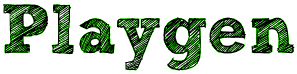
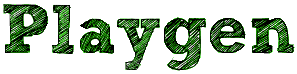
cleaned up but still unsatisfied with speed, about to start implementing threads

diff --git a/templates/home.html b/templates/home.html
@@ -2,7 +2,7 @@
 {% block body %}
 <!-- Main hero unit for a primary marketing message or call to action -->
 <div class="hero-unit">
-  <center><a href='/' id='playgen'><img src="{{ url_for('static', filename='img/playgen-trans.png') }}"></a><center>
+  <center><a href='/' id='playgen'><img src="{{ url_for('static', filename='img/playgen.png') }}"></a><center>
 	<br>
   <p>Type a poem or song here, and get a customized Spotify playlist :) </p>
   <form action="{{ url_for('create_playlist') }}" method="post" id="create-playlist">

diff --git a/templates/no_playlist.html b/templates/no_playlist.html
@@ -1,7 +1,7 @@
 {% extends "layout.html" %}
 {% block body %}
 <div class="hero-unit">
-  <center><a href='/' id='playgen'><img src="{{ url_for('static', filename='img/playgen-trans.png') }}"></a><center>
+  <center><a href='/' id='playgen'><img src="{{ url_for('static', filename='img/playgen.png') }}"></a><center>
 	<br>
   <p>Sorry, we couldn't make a playlist for this phrase: </p>
   <p><i>{{query}}</i></p>

diff --git a/templates/playlist.html b/templates/playlist.html
@@ -1,7 +1,7 @@
 {% extends "layout.html" %}
 {% block body %}
 <div class="hero-unit">
-  <center><a href='/' id='playgen'><img src="{{ url_for('static', filename='img/playgen-trans.png') }}"></a><center>
+  <center><a href='/' id='playgen'><img src="{{ url_for('static', filename='img/playgen.png') }}"></a><center>
 	<br>
   <p>Here's your new playlist! Enjoy! :) </p>
   <ul class = "unstyled">

diff --git a/generate_playlist.py b/generate_playlist.py
@@ -4,9 +4,10 @@ import urllib2
 import json
 
 
-
 start = time()
 begin = time()
+sum_sol_time=0
+sum_request_time = 0
 num_requests = 0
 cache = {}
 
@@ -14,6 +15,7 @@ def playlist(query):
   global start
   global begin
   global num_requests
+
   start = time()
   begin = time()
   num_requests = 0
@@ -22,7 +24,9 @@ def playlist(query):
   stride = create_stride(len(qlist))
   dp_table = {"query": query, 'solution': None} 
   r = gen(stride-1,0,len(qlist),qlist,dp_table)
-  print "Total Elapsed: " + str(time() - begin)   
+  print "Total Elapsed: " + str(time() - begin)  
+  print "Total spent on solutions: " + str(sum_sol_time)
+  print "Total spent on requests: " + str(sum_request_time)
   return r
   
   
@@ -37,6 +41,7 @@ def create_stride(n):
     return min(3,n)
     
 def gen(r,c,n,l,dp_table):
+  global sum_sol_time
   start_c = c
   for i in range(r,-1,-1):
     for j in range(c,n-i):
@@ -78,7 +83,11 @@ def gen(r,c,n,l,dp_table):
           for k,v in dp_table.iteritems():
             if v is not None and k != 'query' and k != 'solution':
               matches.append(v)
+              t= time()
               sol = get_solution(matches,dp_table['query'].lower())
+              e= time()-t
+              sum_sol_time += e
+              #print "calculating sol took " + str(e) + "seconds"
               #print sol
               if sol != [False]:
                 dp_table['solution'] = sol
@@ -127,6 +136,7 @@ def query_api(query):
   global start
   global num_requests
   global cache
+  global sum_request_time
   search_query = urllib2.quote(query)
   #print "Searching for " + query + " as " + search_query + " on the Metadata API"
   metadata_url = "http://ws.spotify.com/search/1/track.json?q=track:"
@@ -139,9 +149,13 @@ def query_api(query):
       sleep(1 - elapsed)
       start = time()
   try:
+    t=time()
     data = urllib2.urlopen(metadata_url+search_query)
     result = data.read()
     num_requests += 1
+    e=time()-t
+    #print "request took " + str(e) + " seconds"
+    sum_request_time += e
   except Exception, e:
-    return str(e)
+    print str(e)
   return json.loads(result)
